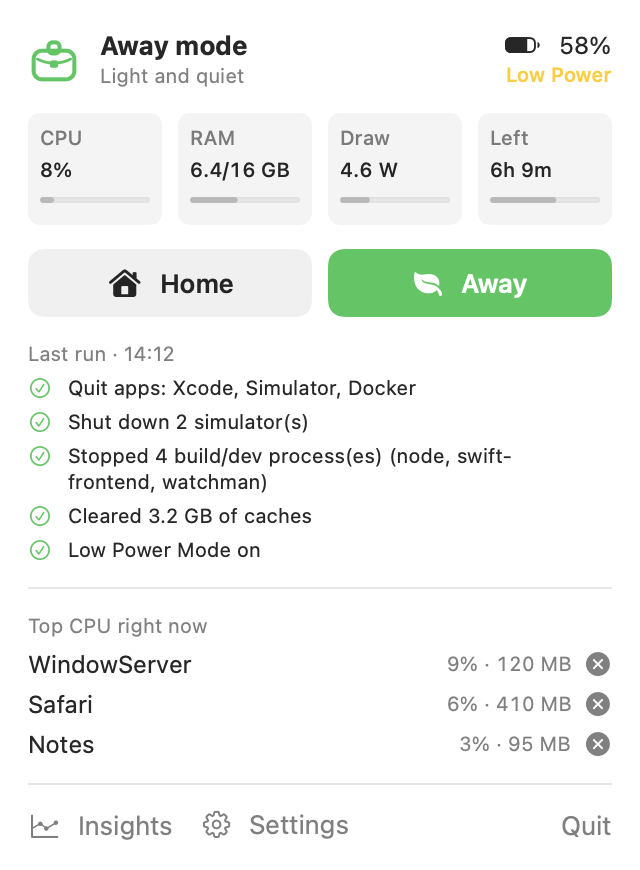
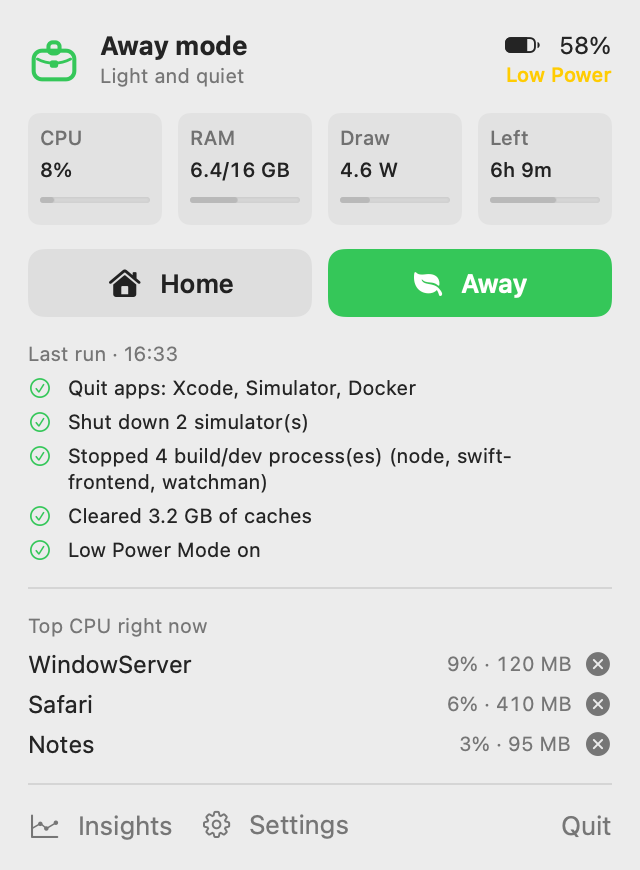
Opaque README screenshots; fix Settings crash during layout
Screenshots had a transparent background, so the dark text was unreadable
on dark-mode pages such as the GitHub mobile app. Renders are now drawn on
an opaque light background at full Retina scale, with sample settings kept
in a separate demo suite.

AppEntry.developerDir ran xcode-select from inside a view body; waiting on
the process spun the run loop mid-layout and SwiftUI aborted. It now reads
xcode-select's symlink directly.

diff --git a/Sources/Packlight/PacklightApp.swift b/Sources/Packlight/PacklightApp.swift
@@ -5,6 +5,21 @@ import SwiftUI
 final class AppDelegate: NSObject, NSApplicationDelegate {
     private var status: StatusItemController?
 
+    /// Sample settings for the README screenshot, kept in a throwaway suite so the
+    /// user's real settings are neither shown nor changed.
+    private static func demoDefaults() -> UserDefaults {
+        let suite = "io.github.efeshinkawa.packlight.demo"
+        let d = UserDefaults(suiteName: suite)!
+        d.removePersistentDomain(forName: suite)
+        d.set("en", forKey: Key.language)
+        d.set("com.logi.ghub", forKey: Key.relaunchApps)
+        d.set("com.apple.dt.Xcode, com.google.android.studio", forKey: Key.appBundleIDs)
+        return d
+    }
+
+    /// A menu bar app never quits because a window closed (snapshot render windows included).
+    func applicationShouldTerminateAfterLastWindowClosed(_ sender: NSApplication) -> Bool { false }
+
     func application(_ application: NSApplication, open urls: [URL]) {
         Task { @MainActor in urls.forEach(AppState.shared.handle) }
     }
@@ -24,6 +39,7 @@ final class AppDelegate: NSObject, NSApplicationDelegate {
             return
         }
         let dir = URL(fileURLWithPath: args[i + 1])
+        NSApp.appearance = NSAppearance(named: .aqua)   // README shots are always light
         Task { @MainActor in
             let state = AppState.shared
             let demo = args.contains("--demo")
@@ -37,7 +53,8 @@ final class AppDelegate: NSObject, NSApplicationDelegate {
             }
             Windows.render(MenuView().environmentObject(state).environmentObject(Insights.shared),
                            to: dir.appending(path: "menu.png"))
-            Windows.render(SettingsView().environmentObject(state).frame(width: 480, height: demo ? 1300 : 900),
+            Windows.render(SettingsView().environmentObject(state).frame(width: 480, height: demo ? 1300 : 900)
+                .defaultAppStorage(demo ? Self.demoDefaults() : .standard),
                            to: dir.appending(path: "settings.png"))
             if demo {
                 Windows.render(AppPickerSheet(existing: [], preset: AppPickerSheet.demoApps,
@@ -63,6 +80,7 @@ final class AppDelegate: NSObject, NSApplicationDelegate {
 enum Windows {
     enum Kind { case settings, insights }
     private static var open: [Kind: NSWindow] = [:]
+    private static var renderWindows: [NSWindow] = []
 
     static func show(_ kind: Kind) {
         if let w = open[kind] {
@@ -103,16 +121,35 @@ enum Windows {
         NSApp.activate(ignoringOtherApps: true)
     }
 
+    /// Renders a view to an opaque PNG in light appearance. Opaque matters: a transparent
+    /// background makes the dark text unreadable on dark-mode pages (e.g. GitHub's app).
     static func render(_ view: some View, to url: URL) {
+        let aqua = NSAppearance(named: .aqua)
         let host = NSHostingView(rootView: view)
         host.frame.size = host.fittingSize
         let window = NSWindow(contentRect: host.frame, styleMask: [.borderless], backing: .buffered, defer: false)
+        window.isReleasedWhenClosed = false
+        renderWindows.append(window)   // kept alive until the snapshot run exits
         window.contentView = host
         window.backgroundColor = .windowBackgroundColor
         host.layoutSubtreeIfNeeded()
-        guard let rep = host.bitmapImageRepForCachingDisplay(in: host.bounds) else { return }
-        host.cacheDisplay(in: host.bounds, to: rep)
-        try? rep.representation(using: .png, properties: [:])?.write(to: url)
+        guard let content = host.bitmapImageRepForCachingDisplay(in: host.bounds) else { return }
+        host.cacheDisplay(in: host.bounds, to: content)
+
+        guard let out = NSBitmapImageRep(bitmapDataPlanes: nil, pixelsWide: content.pixelsWide,
+                                         pixelsHigh: content.pixelsHigh, bitsPerSample: 8, samplesPerPixel: 4,
+                                         hasAlpha: true, isPlanar: false, colorSpaceName: .deviceRGB,
+                                         bytesPerRow: 0, bitsPerPixel: 0) else { return }
+        out.size = content.size   // before creating the context, so it draws at the Retina scale
+        guard let ctx = NSGraphicsContext(bitmapImageRep: out) else { return }
+        NSGraphicsContext.saveGraphicsState()
+        NSGraphicsContext.current = ctx
+        let rect = NSRect(origin: .zero, size: content.size)
+        aqua?.performAsCurrentDrawingAppearance { NSColor.windowBackgroundColor.setFill() }
+        rect.fill()
+        content.draw(in: rect, from: .zero, operation: .sourceOver, fraction: 1, respectFlipped: false, hints: nil)
+        NSGraphicsContext.restoreGraphicsState()
+        try? out.representation(using: .png, properties: [:])?.write(to: url)
     }
 }
 

diff --git a/Sources/Packlight/AppPicker.swift b/Sources/Packlight/AppPicker.swift
@@ -17,8 +17,11 @@ struct AppEntry: Identifiable, Hashable {
         return NSWorkspace.shared.icon(for: .application)
     }
 
-    private static let developerDir = Shell.run("/usr/bin/xcode-select", ["-p"]).out
-        .trimmingCharacters(in: .whitespacesAndNewlines)
+    /// The selected developer dir, read from xcode-select's symlink. No subprocess: this runs
+    /// inside view bodies, and waiting on a process spins the run loop mid-layout (SwiftUI aborts).
+    private static let developerDir =
+        (try? FileManager.default.destinationOfSymbolicLink(atPath: "/var/db/xcode_select_link"))
+        ?? "/Applications/Xcode.app/Contents/Developer"
 
     /// Finds an app by bundle ID, including Simulator, which lives inside Xcode where
     /// Launch Services doesn't always index it.
